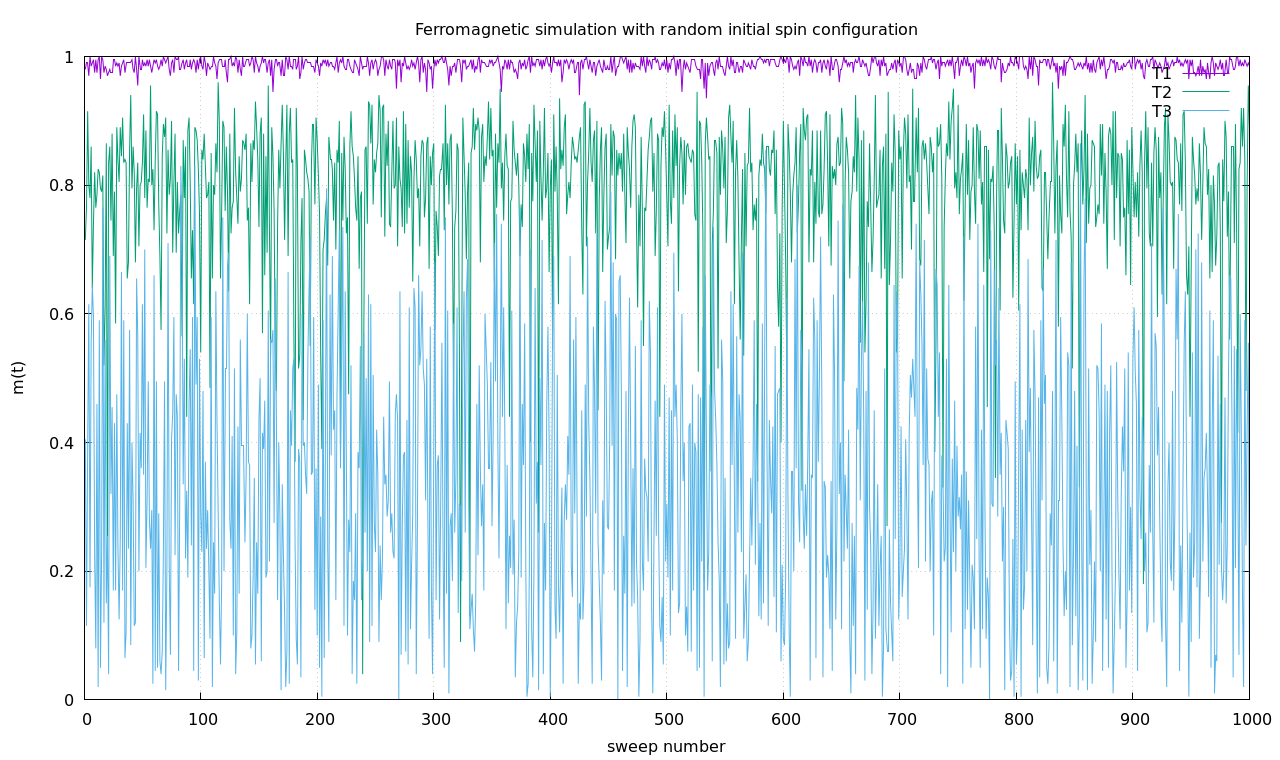
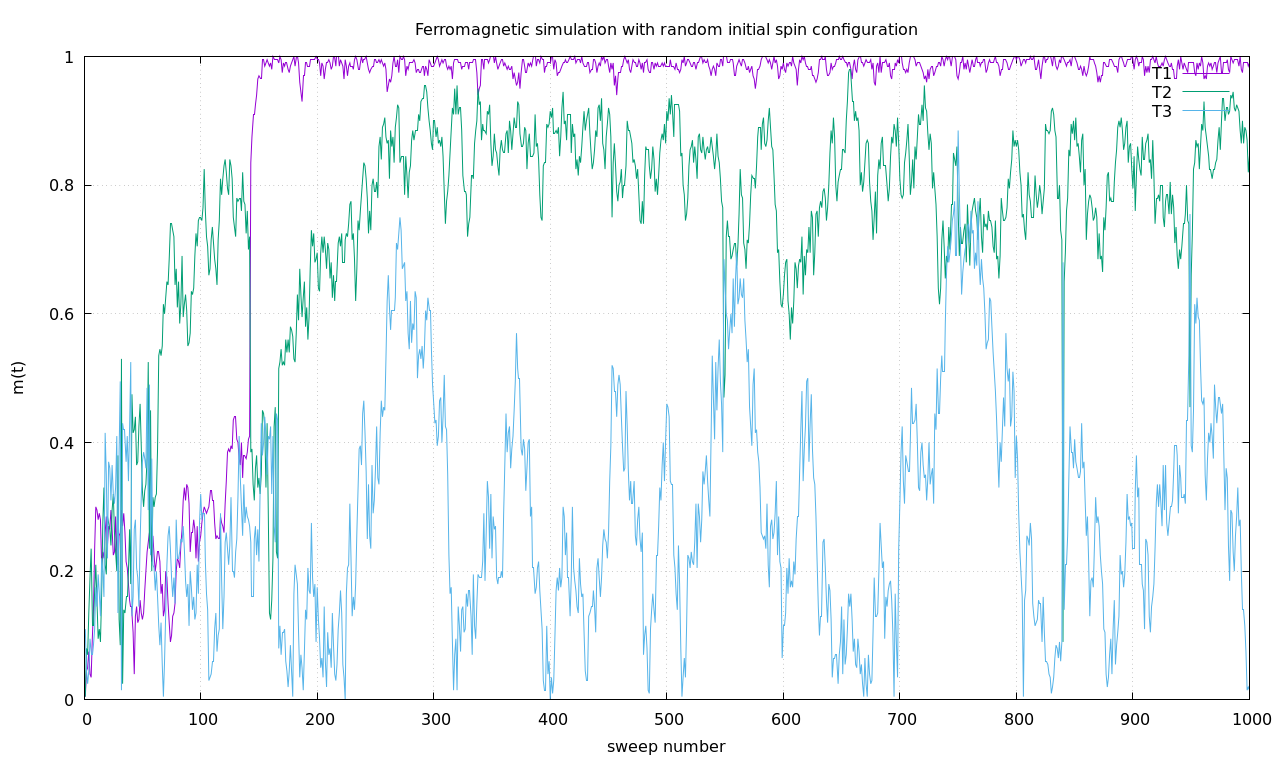
Finish_e9

diff --git a/exercise_9/diluted_PT.c b/exercise_9/diluted_PT.c
@@ -33,7 +33,7 @@
 /***************************************************************/
 void diluted_PT(int num_T, short int **spin_cfg, int num_n, int N, int *next, short int *e, double *T, int *exch, int *tries)
 {
-  int k, mc_steps = 1000; // Define the number of Monte Carlo steps
+  int k, mc_steps = 1; // Define the number of Monte Carlo steps
   double delta, r;
 
   // Perform Monte Carlo algorithm for each temperature configuration
